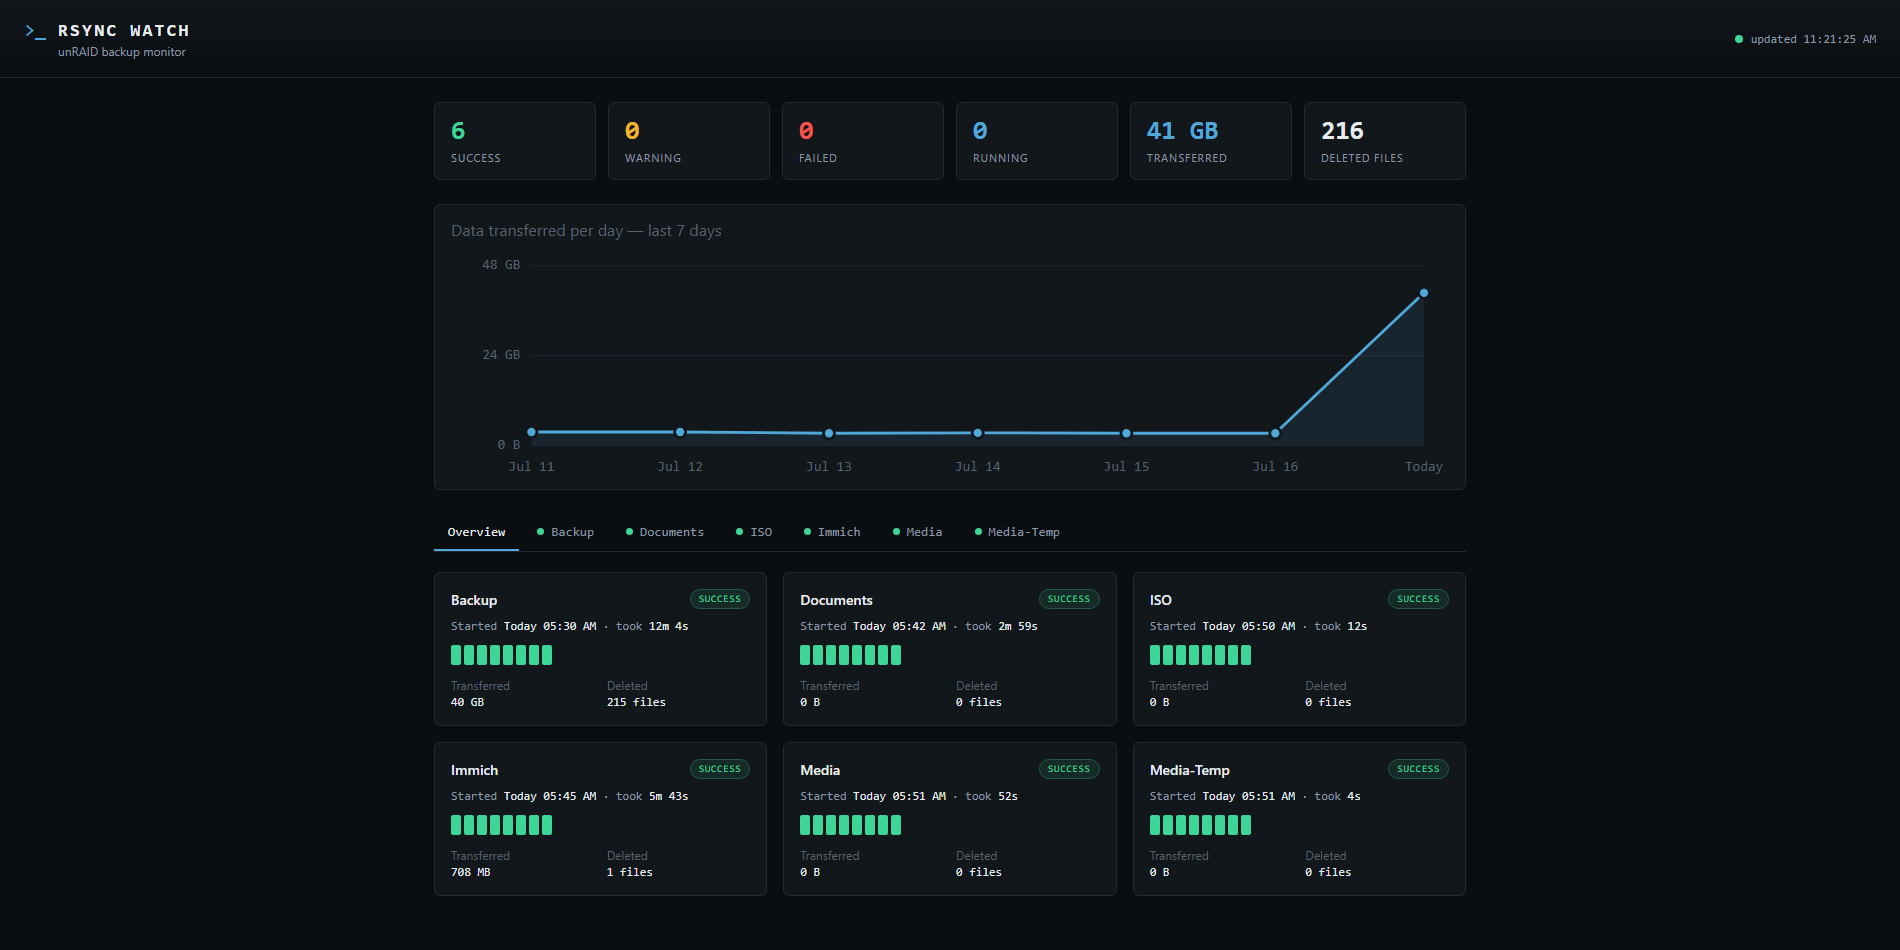
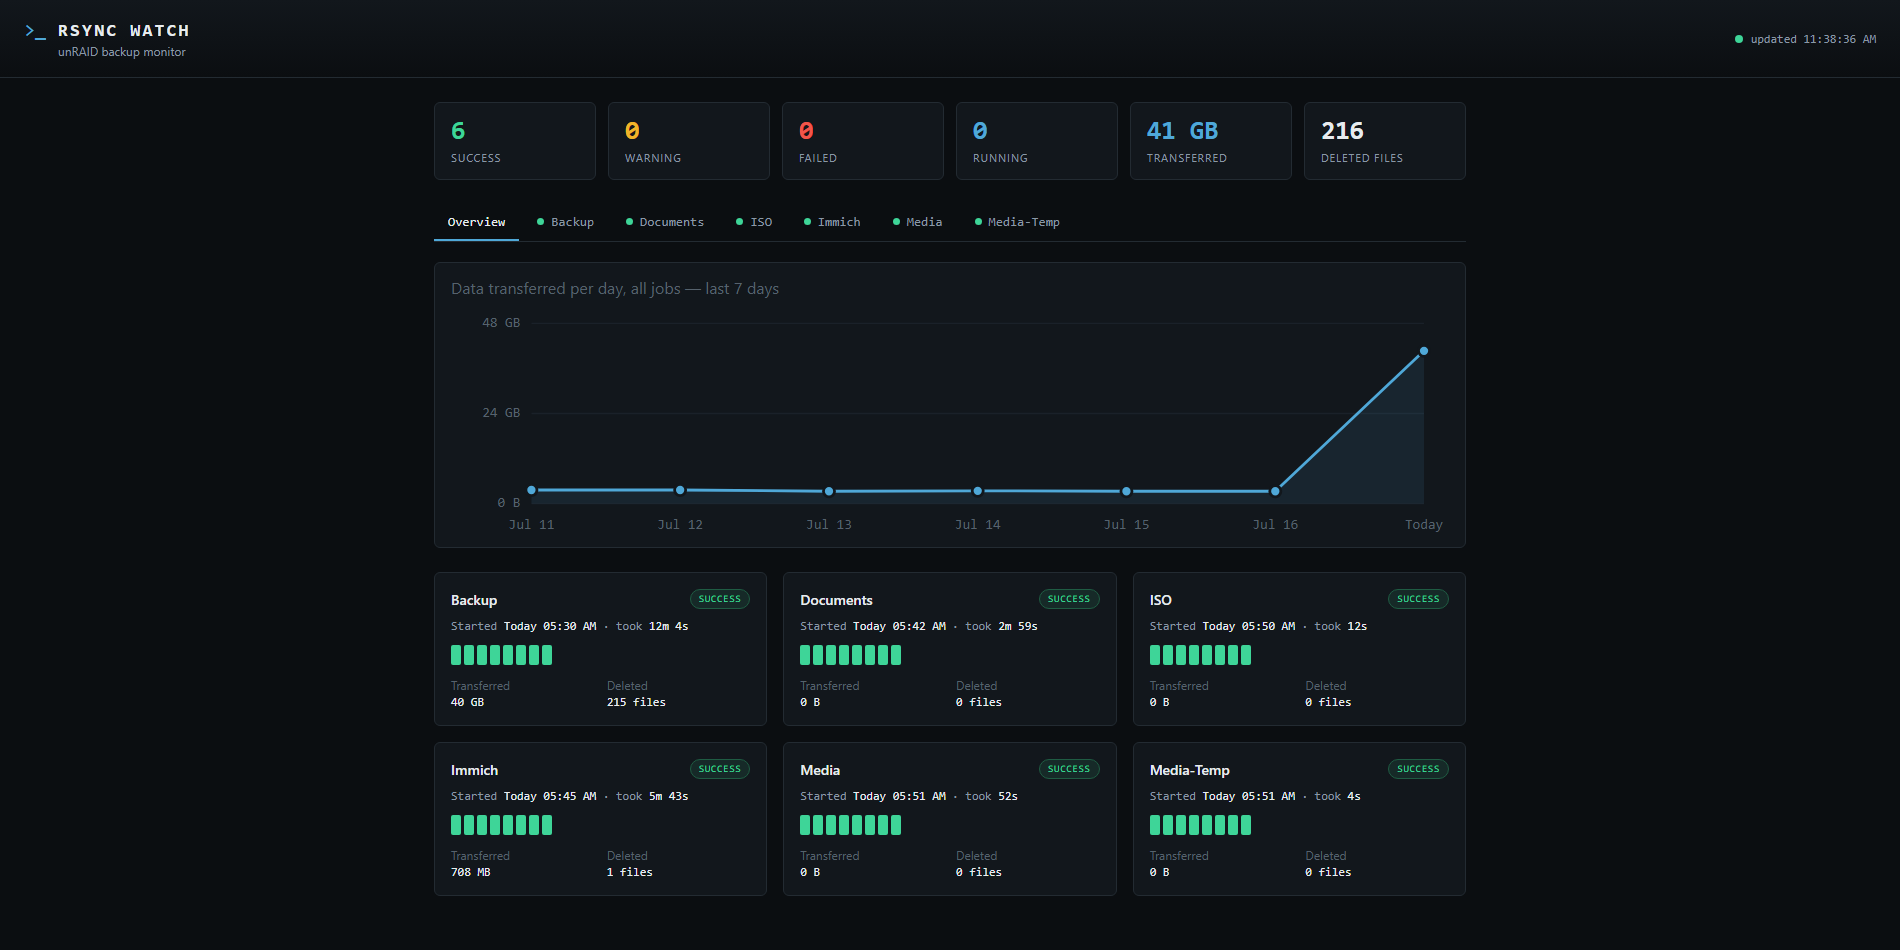
Move overview chart below the tab bar; clickable title returns home
- Overview layout now matches the detail pages: stat cards, tabs,
  chart, then the job grid
- Clicking the RSYNC WATCH title in the topbar returns to the overview
  tab (pointer cursor + accent hover as affordance)
- docs: refresh overview screenshot

diff --git a/static/app.js b/static/app.js
@@ -267,9 +267,9 @@ function render() {
   const multiServer = hasMultipleServers(data);
   let body;
   if (state.tab === "overview") {
-    body = renderOverview(data)
+    body = renderOverview(data) + renderTabs(data)
       + renderTransferChart(data.daily_transfers, "Data transferred per day, all jobs — last 7 days")
-      + renderTabs(data) + renderJobGrid(data);
+      + renderJobGrid(data);
   } else {
     const job = data.jobs.find(j => jobKey(j) === state.tab);
     if (!job) { state.tab = "overview"; return render(); }
@@ -315,6 +315,14 @@ async function fetchData() {
     lastUpdatedEl.textContent = "connection lost — retrying…";
   }
 }
+
+// Clicking the title in the topbar returns to the overview tab.
+document.querySelector(".topbar__title").addEventListener("click", () => {
+  if (state.tab !== "overview") {
+    state.tab = "overview";
+    render();
+  }
+});
 
 fetchData();
 setInterval(fetchData, REFRESH_MS);

diff --git a/static/style.css b/static/style.css
@@ -77,7 +77,9 @@ a { color: var(--accent); }
   display: flex;
   align-items: baseline;
   gap: 12px;
+  cursor: pointer;
 }
+.topbar__title:hover h1 { color: var(--accent); }
 .topbar__mark {
   font-family: var(--font-mono);
   color: var(--accent);

diff --git a/templates/index.html b/templates/index.html
@@ -10,7 +10,7 @@
 <body>
 
 <header class="topbar">
-  <div class="topbar__title">
+  <div class="topbar__title" title="Back to overview">
     <span class="topbar__mark">&gt;_</span>
     <div>
       <h1>RSYNC WATCH</h1>